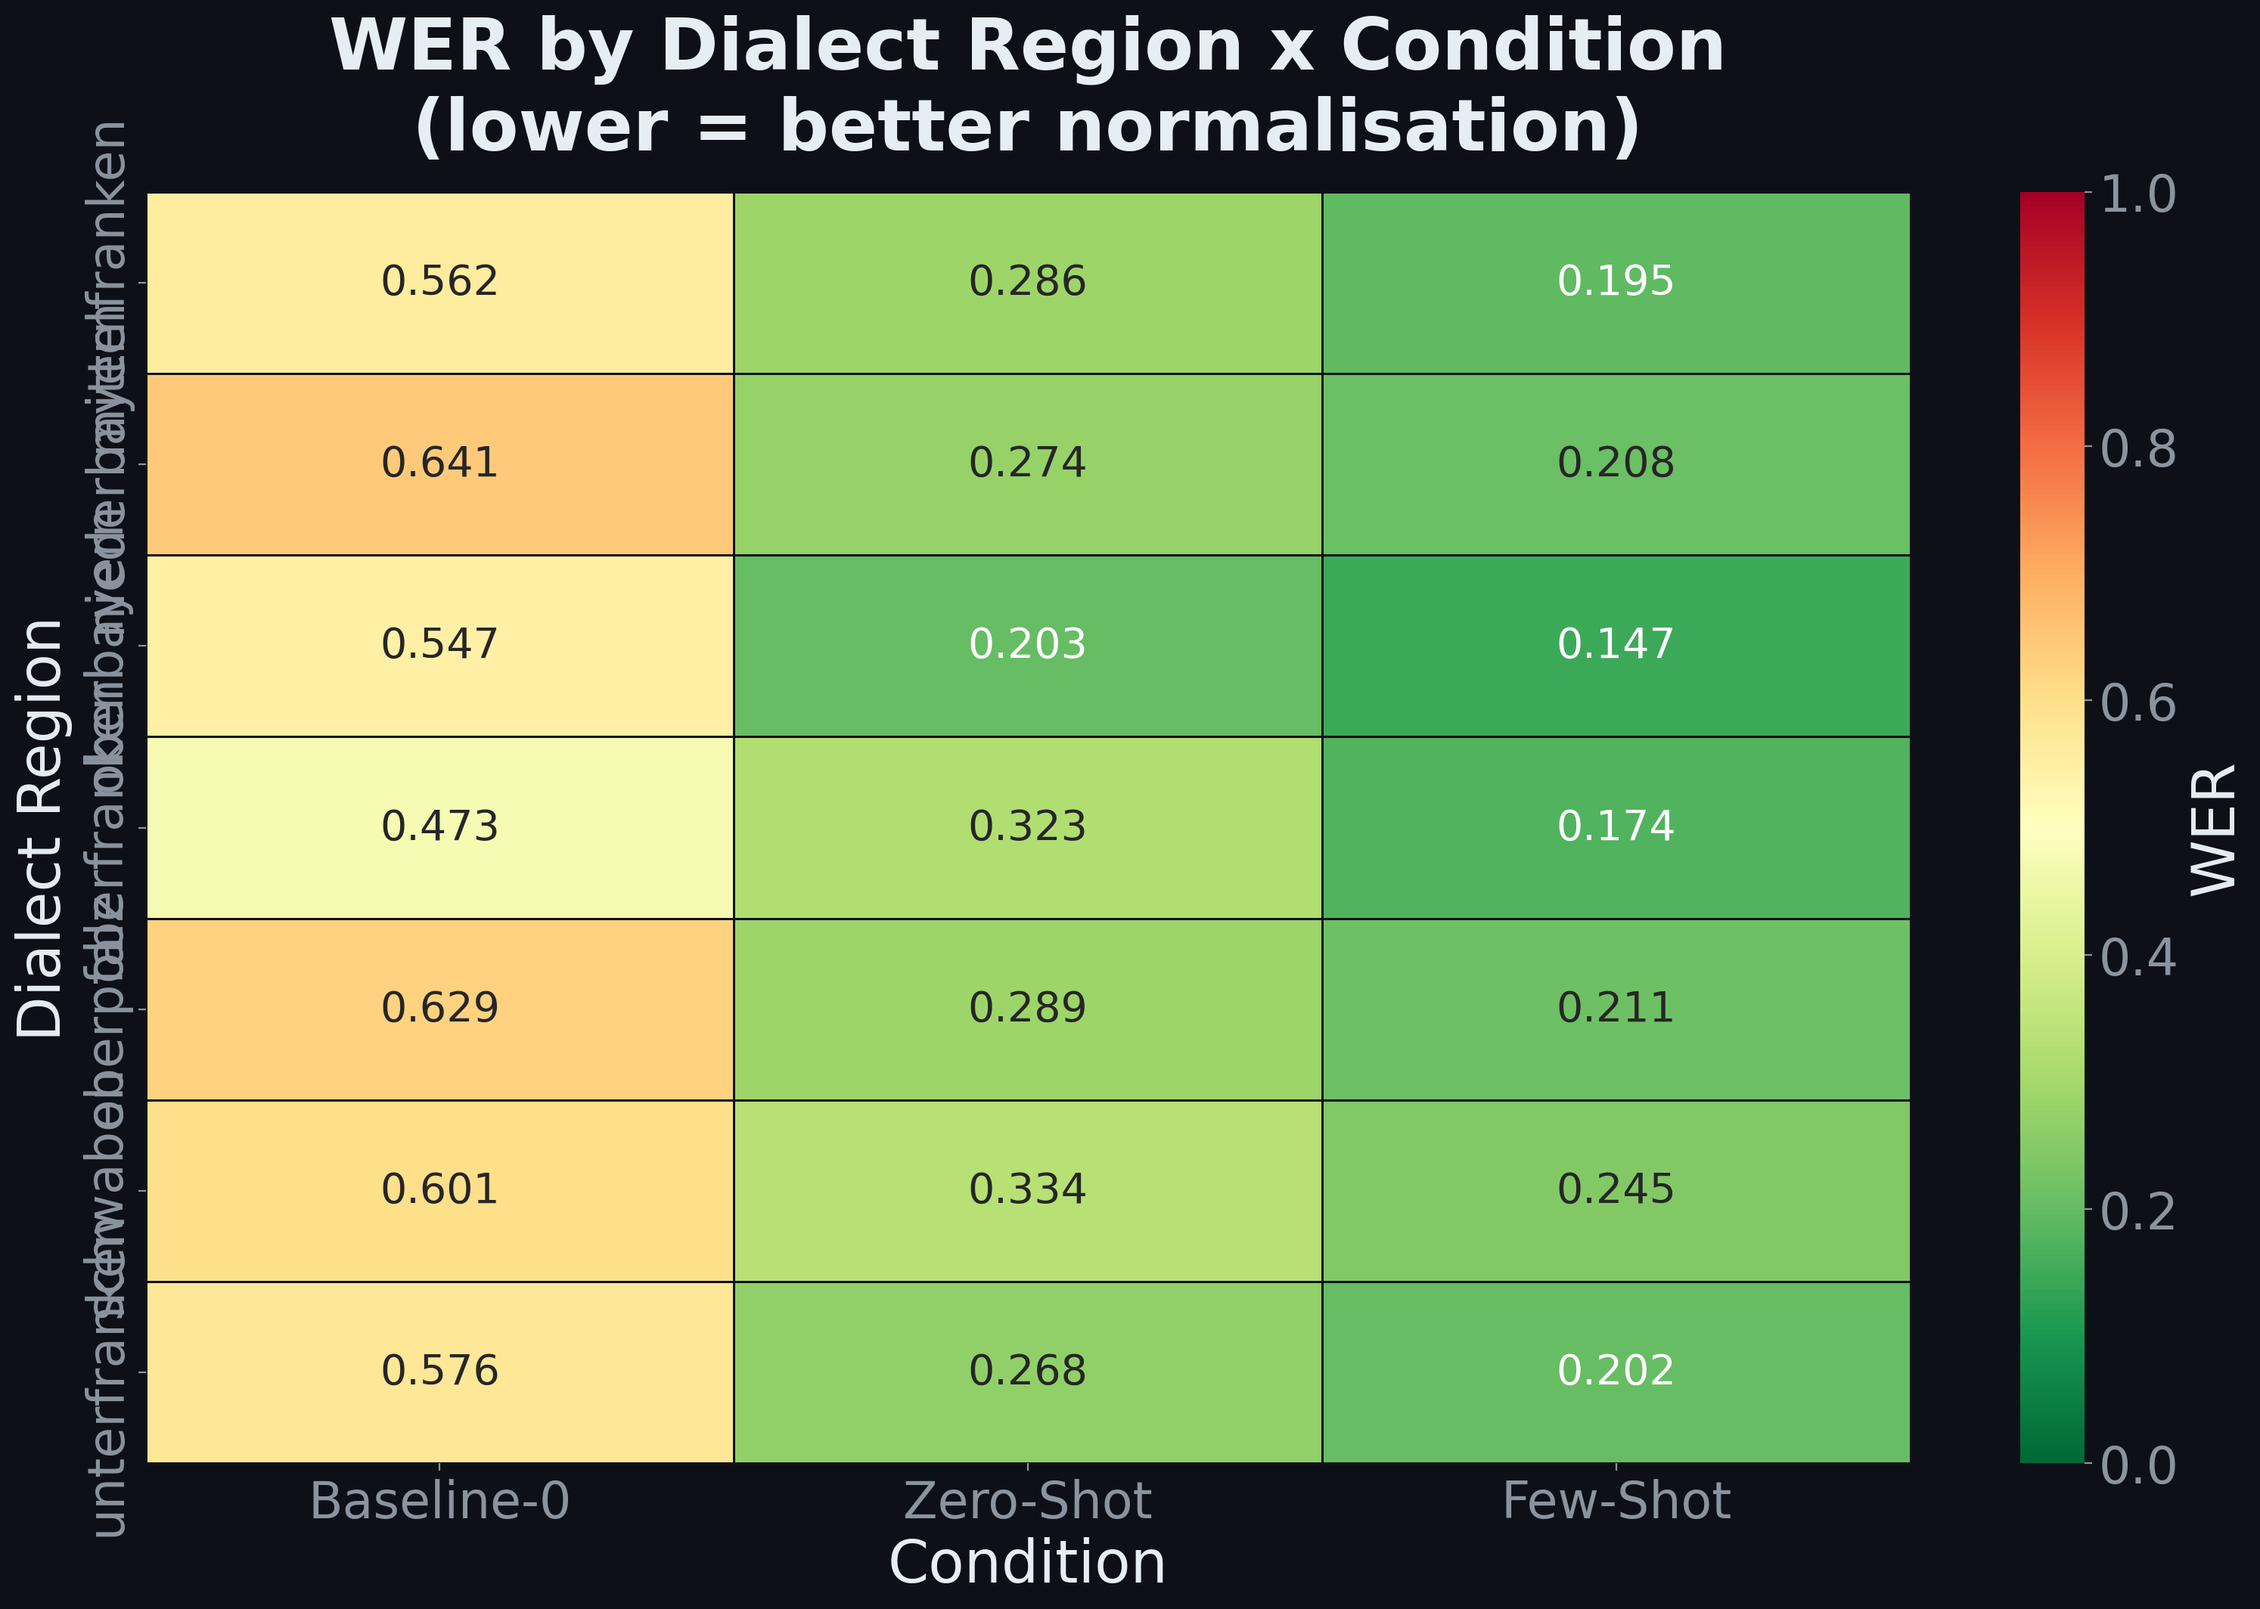
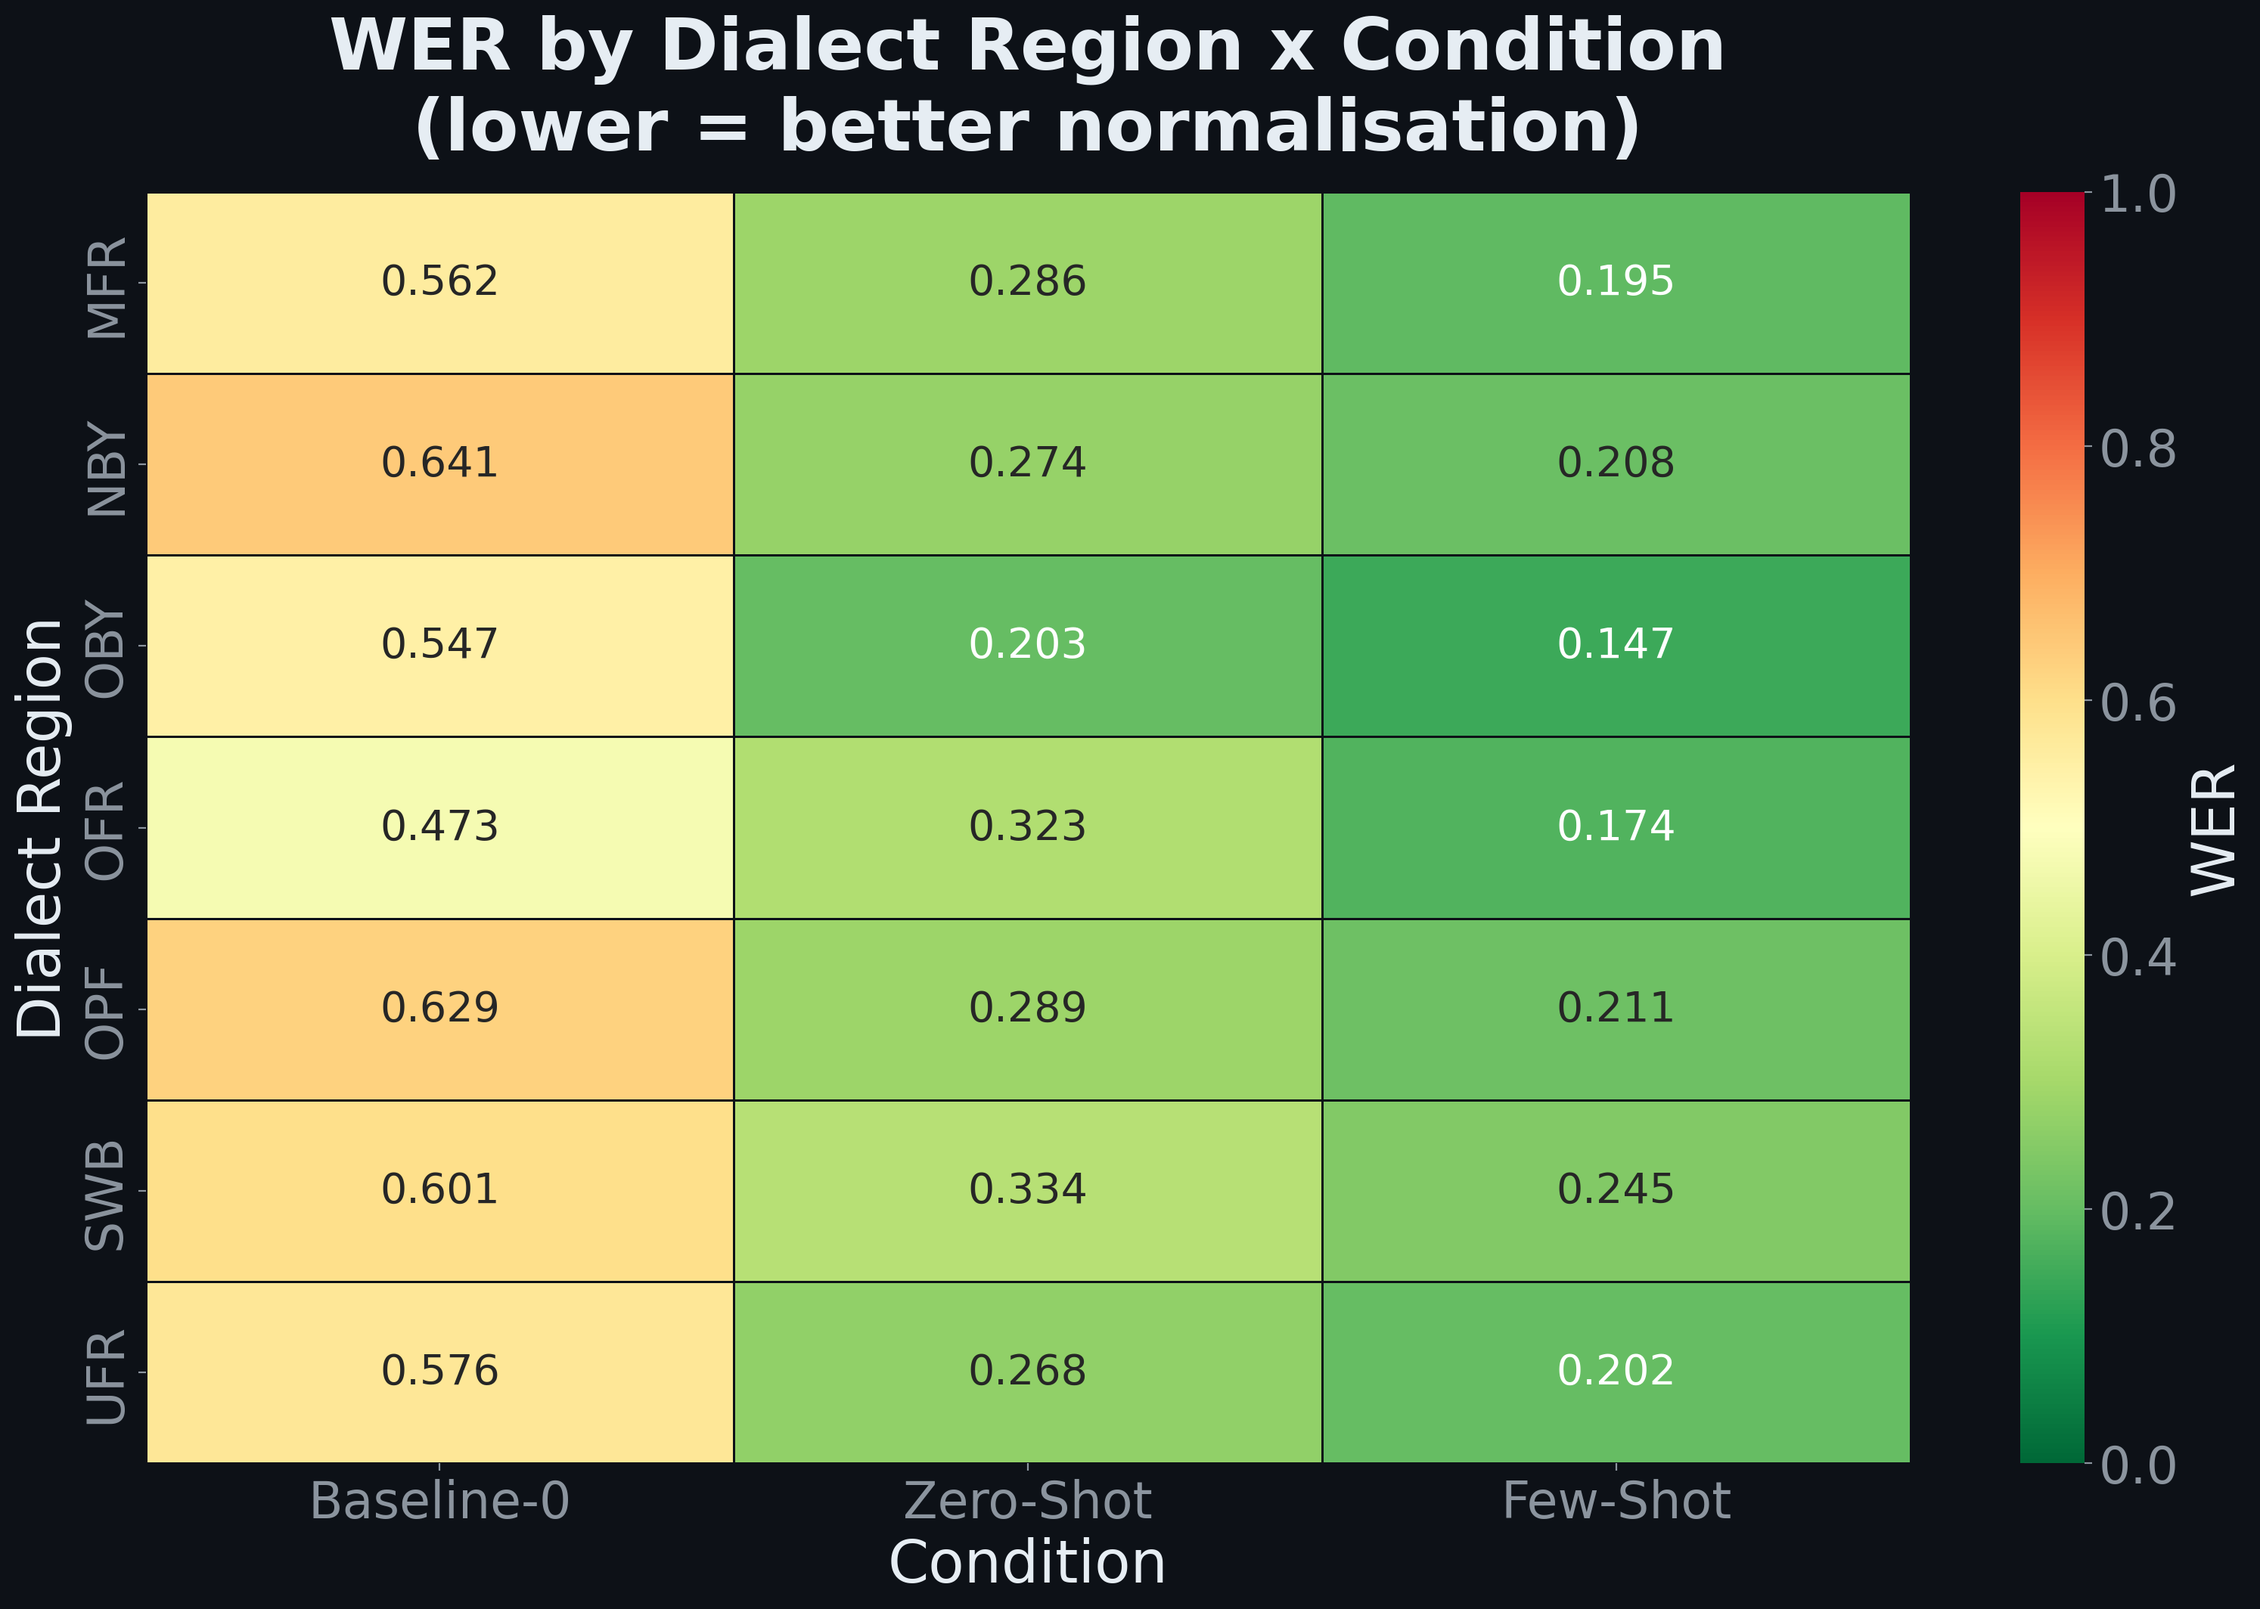
Abbreviate region names on heatmap y-axis

Changed region(s): [[0.0311, 0.093, 0.0622, 0.9615]]

diff --git a/visualize.py b/visualize.py
@@ -206,6 +206,16 @@ def plot_region_heatmap(
         "Condition-B (Few-Shot)":  "Few-Shot",
     }
     region_df = region_df.copy()
+    short_regions = {
+        "mittelfranken": "MFR",
+        "niederbayern": "NBY",
+        "oberbayern": "OBY",
+        "oberfranken": "OFR",
+        "oberpfalz": "OPF",
+        "schwaben": "SWB",
+        "unterfranken": "UFR",
+    }
+    region_df["region"] = region_df["region"].map(lambda r: short_regions.get(r, r))
     region_df["condition"] = region_df["condition"].map(
         lambda c: short_labels.get(c, c)
     )
